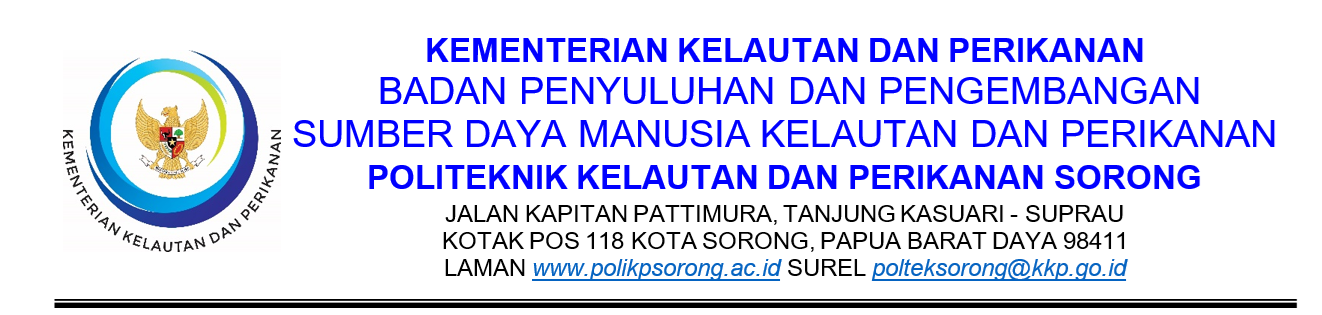
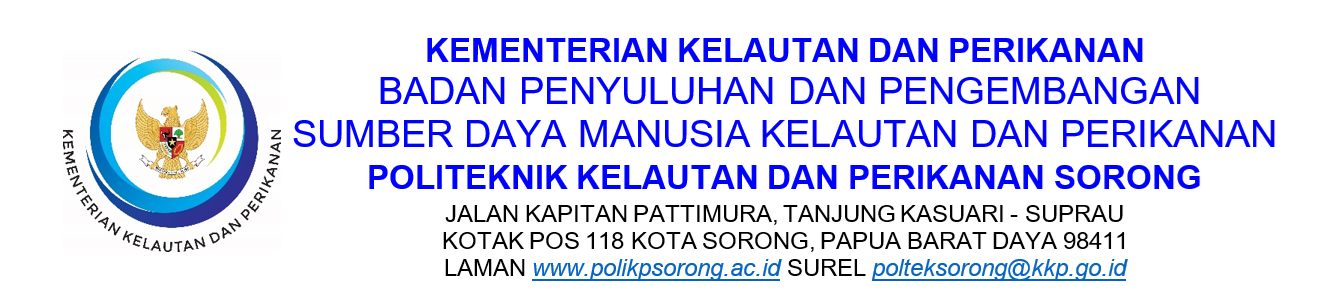
fix: garis kop surat masih dobel — ternyata baked-in di gambar itu sendiri
Root cause: kop-surat-2024.png ternyata punya garis penutup GANDA (garis
tipis + garis tebal, terpisah beberapa piksel) di dalam gambarnya sendiri —
bukan dari CSS. Crop gambar membuang kedua garis bawaan itu; satu garis
border-b-2 dari komponen sekarang jadi satu-satunya garis, dipakai baik
untuk gambar maupun kop teks fallback.

Changed region(s): [[0.031, 0.152, 0.9924, 1.0], [0.3101, 0.1216, 0.8684, 0.2128]]

diff --git a/frontend/src/components/cetak/kop-surat.tsx b/frontend/src/components/cetak/kop-surat.tsx
@@ -18,18 +18,17 @@ export function KopSurat() {
         onError={() => setGambarOk(false)}
       />
       {!gambarOk && (
-        <>
-          <div className="text-center leading-tight">
-            <p className="text-xs font-semibold">KEMENTERIAN KELAUTAN DAN PERIKANAN</p>
-            <p className="text-xs font-semibold">BADAN PENYULUHAN DAN PENGEMBANGAN SUMBER DAYA MANUSIA KELAUTAN DAN PERIKANAN</p>
-            <p className="text-sm font-bold">POLITEKNIK KELAUTAN DAN PERIKANAN SORONG</p>
-            <p className="text-[10px]">Jl. Kapitan Pattimura, Tanjung Kasuari - Suprau, Kota Sorong, Papua Barat Daya 98411</p>
-          </div>
-          {/* Gambar kop sudah punya garis penutup sendiri (lihat kop-surat-2024.png)
-              — garis ini HANYA utk kop teks fallback, supaya tidak dobel saat gambar dipakai. */}
-          <div className="mt-1 border-b-2 border-black" />
-        </>
+        <div className="text-center leading-tight">
+          <p className="text-xs font-semibold">KEMENTERIAN KELAUTAN DAN PERIKANAN</p>
+          <p className="text-xs font-semibold">BADAN PENYULUHAN DAN PENGEMBANGAN SUMBER DAYA MANUSIA KELAUTAN DAN PERIKANAN</p>
+          <p className="text-sm font-bold">POLITEKNIK KELAUTAN DAN PERIKANAN SORONG</p>
+          <p className="text-[10px]">Jl. Kapitan Pattimura, Tanjung Kasuari - Suprau, Kota Sorong, Papua Barat Daya 98411</p>
+        </div>
       )}
+      {/* kop-surat-2024.png sudah di-crop TANPA garis penutup bawaannya sendiri
+          (dulu ganda: garis tipis + garis tebal) — satu garis ini dipakai baik
+          utk gambar maupun kop teks fallback, supaya selalu tepat satu garis. */}
+      <div className="mt-1 border-b-2 border-black" />
     </div>
   );
 }
